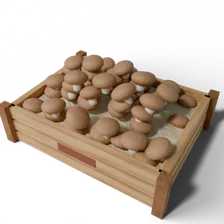
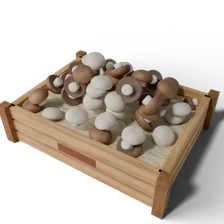
Salami, Salsiccia, Zucchini und Funghi natürlicher
Marktkisten neu modelliert und gerendert: Salami mit dunkler, bestäubter
Haut, Bindfaden, Anschnitt und Scheiben; Salsiccia als Kette mit grober
Füllung im glänzenden Darm; Zucchini keulenförmig mit Längsstreifen und
kantigem Stiel; gemischte braune und weiße Champignons mit Lamellen.
Knopf-Symbole und Pizzabelag passend dazu neu gezeichnet (Salami mit
Fettaugen, zerpflückte Salsiccia, Zucchini-Scheiben, Pilz-Scheiben).

Claude-Session: https://claude.ai/code/session_01KgNtpT19GCDNv4F5Gs6Jmq

Changed region(s): [[0.0938, 0.2188, 0.9062, 0.75]]

diff --git a/www/js/grafik.js b/www/js/grafik.js
@@ -50,9 +50,9 @@ function ingIcon(k){
     pomodoro:`<circle cx="12" cy="13.5" r="8" fill="${c}" ${o}/><path d="M12 6 l-3-2 M12 6 l3-2 M12 6 l0-3" stroke="#3f9a45" stroke-width="2" stroke-linecap="round"/><circle cx="9" cy="11" r="1.6" fill="#fff" opacity=".5"/>`,
     mozzarella:`<circle cx="12" cy="13" r="8" fill="${c}" ${o}/><path d="M7 15 q5 4 10 0" stroke="#d9d0bc" stroke-width="1.5" fill="none"/><circle cx="9" cy="10" r="1.8" fill="#fff"/>`,
     basilico:`<path d="M12 3 C20 6 21 15 12 21 C3 15 4 6 12 3Z" fill="${c}" ${o}/><path d="M12 5 V19 M12 10 l3-2 M12 14 l-3-2" stroke="#2a6a30" stroke-width="1.2" fill="none"/>`,
-    funghi:`<path d="M3 12 Q4 4 12 4 Q20 4 21 12Z" fill="${c}" ${o}/><rect x="9" y="12" width="6" height="8" rx="2" fill="#efe3cf" ${o}/><circle cx="9" cy="8" r="1.3" fill="#e9d8c0"/><circle cx="15" cy="7.5" r="1" fill="#e9d8c0"/>`,
+    funghi:`<path d="M2.5 11.5 Q2.5 3.5 12 3.5 Q21.5 3.5 21.5 11.5 Q21.5 13.2 19.5 13.2 L4.5 13.2 Q2.5 13.2 2.5 11.5Z" fill="${c}" ${o}/><path d="M5 12.2 Q12 10.6 19 12.2" stroke="#6e5240" stroke-width="1" fill="none"/><path d="M9.3 13.2 L8.6 19.5 Q12 21.8 15.4 19.5 L14.7 13.2Z" fill="#efe6d4" ${o}/><path d="M7 7 Q9 5 12 5" stroke="#d9bf9c" stroke-width="1.4" fill="none" stroke-linecap="round"/><g fill="#8a6446"><circle cx="15" cy="7.5" r=".7"/><circle cx="17.5" cy="9.5" r=".6"/><circle cx="13" cy="9.5" r=".5"/></g>`,
     prosciutto:`<path d="M3 15 Q5 6 12 7 Q19 4 21 11 Q19 19 11 18 Q5 20 3 15Z" fill="${c}" ${o}/><path d="M5 15 Q8 10 12 11 Q17 9 19 12" stroke="#fbeeee" stroke-width="2" fill="none"/>`,
-    salame:`<circle cx="12" cy="12" r="9" fill="${c}" ${o}/><circle cx="9" cy="9" r="1.3" fill="#f3d6cf"/><circle cx="15" cy="10" r="1" fill="#f3d6cf"/><circle cx="11" cy="15" r="1.2" fill="#f3d6cf"/><circle cx="16" cy="15" r="1" fill="#f3d6cf"/>`,
+    salame:`<circle cx="12" cy="12" r="9.5" fill="#5a2420" ${o}/><circle cx="12" cy="12" r="8" fill="${c}"/><g fill="#f3dccf"><ellipse cx="8.5" cy="9" rx="1.6" ry="1.1"/><circle cx="14.5" cy="8" r=".8"/><ellipse cx="15.5" cy="13.5" rx="1.3" ry="1.7"/><circle cx="10.5" cy="14.5" r="1"/><circle cx="12.5" cy="11" r=".6"/><circle cx="7.5" cy="13" r=".7"/><circle cx="12" cy="17" r=".7"/></g><g fill="#2a1414"><circle cx="11" cy="7.3" r=".55"/><circle cx="16.5" cy="10.5" r=".5"/><circle cx="9" cy="16.5" r=".5"/></g>`,
     olive:`<ellipse cx="12" cy="12" rx="6.5" ry="8.5" fill="${c}" stroke="#9aa39a" stroke-width="1.2"/><ellipse cx="12" cy="12" rx="2.2" ry="3" fill="#6a6a5a"/><ellipse cx="9.5" cy="8" rx="1.3" ry="2" fill="#fff" opacity=".35"/>`,
     cipolla:`<circle cx="12" cy="12" r="8.5" fill="none" stroke="${c}" stroke-width="3"/><circle cx="12" cy="12" r="4.5" fill="none" stroke="${c}" stroke-width="2.4"/>`,
     peperoni:`<path d="M7 8 Q12 5 17 8 Q20 15 15 21 Q12 22 9 21 Q4 15 7 8Z" fill="${c}" ${o}/><path d="M12 7 V3 l2 -1" stroke="#3f9a45" stroke-width="2" fill="none" stroke-linecap="round"/><path d="M9 11 Q8 15 10 18" stroke="#fff" stroke-width="1.2" fill="none" opacity=".5"/>`,
@@ -64,7 +64,7 @@ function ingIcon(k){
     olio:`<path d="M10 2 h4 v4 q4 2 4 7 v7 q0 2 -2 2 h-8 q-2 0 -2 -2 v-7 q0 -5 4 -7z" fill="${c}" ${o}/><rect x="9" y="12" width="6" height="5" rx="1" fill="#fbf6ea"/><path d="M10 14.5 h4" stroke="#6f8a3a" stroke-width="1.2"/>`,
     acciughe:`<path d="M2 12 Q10 7 18 11 L22 8 L21 12 L22 16 L18 13 Q10 17 2 12Z" fill="${c}" ${o}/><path d="M5 12 H17" stroke="#c8c3bf" stroke-width="1"/><circle cx="5" cy="11" r=".9" fill="#1e2420"/>`,
     capperi:`<g fill="${c}" ${o}><circle cx="8" cy="9" r="4"/><circle cx="16" cy="10" r="4"/><circle cx="12" cy="16" r="4"/></g><g fill="#a8b870"><circle cx="7" cy="8" r="1"/><circle cx="15" cy="9" r="1"/><circle cx="11" cy="15" r="1"/></g>`,
-    zucchine:`<circle cx="12" cy="12" r="9" fill="${c}" ${o}/><circle cx="12" cy="12" r="6.5" fill="#e8efc0"/><g fill="#c9d58a"><circle cx="10" cy="10" r=".9"/><circle cx="14" cy="11" r=".9"/><circle cx="12" cy="14" r=".9"/></g>`,
+    zucchine:`<path d="M3.5 17 C3 13.5 9 7 15.5 4.5 C18.5 3.4 20.5 5.2 19.5 7.6 C17.5 12 11.5 17.5 6.5 19 C5 19.4 3.8 18.6 3.5 17Z" fill="#2c5e24" ${o}/><path d="M5.6 16.3 C9 12.8 13 9 17.4 6.2 M7.6 17.8 C11 15.4 14.6 12.2 18.6 7.9" stroke="#8fb35c" stroke-width=".8" fill="none" stroke-dasharray="1.6 1.2"/><g fill="#a8c47a"><circle cx="9" cy="14" r=".5"/><circle cx="12" cy="11.5" r=".5"/><circle cx="15" cy="9" r=".5"/></g><path d="M19 5.6 l2.3 -1.6" stroke="#a8a868" stroke-width="2.2" stroke-linecap="round"/><circle cx="17" cy="17" r="4.6" fill="#2f5a22" ${o}/><circle cx="17" cy="17" r="3.6" fill="#e6edc0"/><circle cx="17" cy="17" r="1.8" fill="none" stroke="#c4d48c" stroke-width=".9" stroke-dasharray=".8 .8"/>`,
     melanzane:`<path d="M15 5 Q21 9 19 16 Q16 22 9 20 Q3 17 6 11 Q8 7 12 7 Q13 5 15 5Z" fill="${c}" ${o}/><path d="M13 7 l2 -4 l2 1 l-1 3 Q17 8 15 8Z" fill="#3f9a45"/><ellipse cx="9" cy="13" rx="1.5" ry="3" fill="#fff" opacity=".25"/>`,
     gorgonzola:`<path d="M3 17 L12 5 L21 17Z" fill="${c}" ${o}/><g fill="#5f8fa8"><circle cx="11" cy="12" r="1.2"/><circle cx="14" cy="14" r="1"/><circle cx="9" cy="15" r="1"/><path d="M12 9 l1 2" stroke="#5f8fa8"/></g>`,
     parmigiano:`<path d="M3 17 L12 5 L21 17Z" fill="${c}" ${o}/><path d="M3 17 L21 17 L21 19 L3 19Z" fill="#c99a3a" ${o}/><g fill="#e3c060"><circle cx="11" cy="13" r=".8"/><circle cx="14" cy="15" r=".8"/></g>`,
@@ -73,7 +73,7 @@ function ingIcon(k){
     pecorino:`<path d="M3 17 L12 5 L21 17Z" fill="${c}" ${o}/><path d="M12 5 L21 17 L19 17 L11 6.3Z" fill="#8a6a3a"/><g fill="#d8cca0"><circle cx="10" cy="14" r=".7"/><circle cx="13" cy="12" r=".7"/></g>`,
     provola:`<circle cx="12" cy="13" r="8" fill="${c}" ${o}/><path d="M12 5 q-1 -2 1 -3 q2 1 1 3z" fill="#8a5a2a" ${o}/><path d="M6 15 q6 4 12 0" stroke="#b07a3a" stroke-width="1.4" fill="none"/><circle cx="9" cy="10" r="1.6" fill="#f6dfb0"/>`,
     crudo:`<path d="M3 15 Q5 6 12 7 Q19 4 21 11 Q19 19 11 18 Q5 20 3 15Z" fill="${c}" ${o}/><path d="M4 14 Q8 9 12 10 Q17 8 20 11" stroke="#fbeaea" stroke-width="2.4" fill="none"/>`,
-    salsiccia:`<g fill="${c}" ${o}><circle cx="8" cy="9" r="4.5"/><circle cx="16" cy="11" r="4"/><circle cx="10" cy="17" r="4"/></g><g fill="#c98a6a"><circle cx="7" cy="8" r="1"/><circle cx="16" cy="10" r="1"/><circle cx="10" cy="16" r="1"/></g>`,
+    salsiccia:`<path d="M3.6 16 C2 10.5 7 5 13 4.3 C17 3.9 20.5 5.5 20.8 8.5 C21 11 18.8 12.4 16.2 12.2 C13.2 12 10.6 13.6 9.5 16.6 C8.6 19.2 4.7 19.6 3.6 16Z" fill="${c}" ${o}/><path d="M20.6 6.6 l1.6 -1.4 M5 18.6 l-1.4 1.8" stroke="#d9c7a0" stroke-width="1.4" stroke-linecap="round"/><g fill="#e6b8a6"><ellipse cx="6.5" cy="13" rx="1.2" ry=".8"/><circle cx="9.5" cy="9.5" r="1"/><ellipse cx="13.5" cy="7.2" rx="1.2" ry=".8"/><circle cx="17.5" cy="9.3" r=".8"/><circle cx="6.6" cy="16.4" r=".7"/><circle cx="12" cy="10.6" r=".6"/><circle cx="16" cy="6.3" r=".6"/></g><path d="M5.5 11.5 C7 8.3 10 6.4 13.5 5.9" stroke="#fff" stroke-width="1.1" fill="none" opacity=".35" stroke-linecap="round"/>`,
     friarielli:`<path d="M12 22 V9" stroke="#2a4a1a" stroke-width="1.6"/><path d="M12 12 C4 10 4 3 9 3 C11 3 12 6 12 9 C12 6 13 3 15 3 C20 3 20 10 12 12Z" fill="${c}" ${o}/><path d="M12 17 C7 17 5 13 7 12 C9 11 11 14 12 16" fill="${c}" ${o}/>`,
     ricotta:`<path d="M4 13 Q4 6 12 6 Q20 6 20 13 Q20 19 12 19 Q4 19 4 13Z" fill="${c}" ${o}/><path d="M7 11 q2 -2 4 0 M12 14 q2 -2 4 0 M8 15 q1 -1 2 0" stroke="#e3dccb" stroke-width="1.2" fill="none"/>`,
     cozze:`<path d="M5 19 Q2 9 10 3 Q14 2 15 6 Q19 14 13 21 Q8 22 5 19Z" fill="${c}" ${o}/><path d="M7 18 Q6 10 11 5" stroke="#5a6a8a" stroke-width="1.2" fill="none"/><ellipse cx="11" cy="14" rx="2.5" ry="3.5" fill="#f2a65a"/>`,
@@ -139,15 +139,22 @@ function pizzaSVG(set){
       else if(k==="origano"||k==="capperi"){for(let q=0;q<3;q++)s+=`<circle cx="${x+q*5-5}" cy="${y+(q%2)*4}" r="${k==="capperi"?3:1.6}" fill="${c}"/>`;}
       else if(k==="aglio")s+=`<ellipse cx="${x}" cy="${y}" rx="3.5" ry="2.5" transform="rotate(${rot} ${x} ${y})" fill="${c}" stroke="#cbbfa6"/>`;
       else if(k==="gorgonzola"||k==="parmigiano"||k==="fontina"||k==="ricotta"||k==="bufala"||k==="scamorza"||k==="pecorino"||k==="provola")s+=`<ellipse cx="${x}" cy="${y}" rx="${k==="bufala"?12:8}" ry="${k==="bufala"?10:6}" fill="${c}"/>${k==="gorgonzola"?`<circle cx="${x}" cy="${y}" r="1.6" fill="#5f8fa8"/>`:""}`;
-      else if(k==="zucchine")s+=`<circle cx="${x}" cy="${y}" r="7" fill="${c}"/><circle cx="${x}" cy="${y}" r="5" fill="#e8efc0"/>`;
+      // Zucchini-Scheiben: dunkelgrüne Schale, helles Fruchtfleisch, Kranz aus Kernen, leicht angebräunt
+      else if(k==="zucchine")s+=`<g transform="translate(${x} ${y}) rotate(${rot})"><ellipse rx="8.6" ry="7.9" fill="#2f5a22"/><ellipse rx="7.2" ry="6.6" fill="#dfe8b4"/><ellipse rx="4" ry="3.6" fill="none" stroke="#b6c67c" stroke-width="1.3" stroke-dasharray="1.2 1.2"/><ellipse cx="2.6" cy="-1.8" rx="2.4" ry="1.5" fill="#c9a86a" opacity=".45"/></g>`;
       else if(k==="gamberi")s+=`<path d="M${x-7} ${y-3} q10 -5 12 3 q0 6 -7 6" fill="none" stroke="${c}" stroke-width="5" stroke-linecap="round" transform="rotate(${rot} ${x} ${y})"/>`;
       else if(k==="cozze")s+=`<ellipse cx="${x}" cy="${y}" rx="8" ry="5" transform="rotate(${rot} ${x} ${y})" fill="${c}"/><ellipse cx="${x}" cy="${y}" rx="4" ry="2.5" transform="rotate(${rot} ${x} ${y})" fill="#f2a65a"/>`;
       else if(k==="basilico"||k==="rucola"||k==="prezzemolo"||k==="friarielli")s+=`<ellipse cx="${x}" cy="${y}" rx="${k==="rucola"?9:8}" ry="${k==="rucola"?3:5}" transform="rotate(${rot} ${x} ${y})" fill="${c}"/>`;
       else if(k==="olive")s+=`<circle cx="${x}" cy="${y}" r="5" fill="${c}"/><circle cx="${x}" cy="${y}" r="2" fill="#c93a24"/>`;
       else if(k==="cipolla")s+=`<circle cx="${x}" cy="${y}" r="7" fill="none" stroke="${c}" stroke-width="2.5"/>`;
       else if(k==="peperoni")s+=`<path d="M${x-8} ${y} q8 -8 16 0" fill="none" stroke="${c}" stroke-width="4" stroke-linecap="round" transform="rotate(${rot} ${x} ${y})"/>`;
-      else if(k==="salame"||k==="salsiccia")s+=`<circle cx="${x}" cy="${y}" r="9" fill="${c}"/><circle cx="${x-3}" cy="${y-2}" r="1.6" fill="#f3d0c0"/><circle cx="${x+3}" cy="${y+3}" r="1.6" fill="#f3d0c0"/>`;
-      else if(k==="funghi")s+=`<path d="M${x-7} ${y} a7 7 0 0 1 14 0 z" fill="${c}"/><rect x="${x-2}" y="${y}" width="4" height="5" fill="#e8d8c0"/>`;
+      // Salami-Scheibe: dunkler Rand, unregelmäßige Fettaugen und Pfefferkörner, an den Rändern knusprig
+      else if(k==="salame"){let f="";for(let q=0;q<6;q++){const fa=r()*Math.PI*2, fd=r()*6.2;f+=`<ellipse cx="${(Math.cos(fa)*fd).toFixed(1)}" cy="${(Math.sin(fa)*fd).toFixed(1)}" rx="${(.7+r()*1.2).toFixed(1)}" ry="${(.6+r()*.8).toFixed(1)}" fill="#f3d8ca"/>`;}
+        s+=`<g transform="translate(${x} ${y}) rotate(${rot})"><circle r="10" fill="#5e1e1c"/><circle r="8.6" fill="${c}"/>${f}<circle cx="-2.5" cy="4" r=".7" fill="#2a1414"/><circle cx="4" cy="-3" r=".6" fill="#2a1414"/></g>`;}
+      // Salsiccia wie in Neapel: zerpflückt in kleinen, angebratenen Stückchen
+      else if(k==="salsiccia")for(let q=0;q<3;q++){const px=x+(r()-.5)*16, py=y+(r()-.5)*16, rr=Math.floor(r()*180);
+        s+=`<path transform="translate(${px.toFixed(1)} ${py.toFixed(1)}) rotate(${rr}) scale(1.45)" d="M-4.5 -1 Q-4 -4 -.5 -3.6 Q2 -4.6 4 -2.2 Q5.4 .8 3 3 Q.5 4.4 -2 3.4 Q-5 2.6 -4.5 -1Z" fill="${c}" stroke="#6a3020" stroke-width=".9"/><circle cx="${(px-1).toFixed(1)}" cy="${(py-1).toFixed(1)}" r="1.4" fill="#d99a84"/>`;}
+      // Pilz-Scheiben: Querschnitt von Hut und Stiel, hell mit braunem Rand
+      else if(k==="funghi")s+=`<g transform="translate(${x} ${y}) rotate(${rot})"><path d="M-11 0 Q-11.5 -9.5 0 -9.5 Q11.5 -9.5 11 0 Q10.6 2.4 7 2.2 L4.4 2.2 L4.8 7.2 Q0 9 -4.8 7.2 L-4.4 2.2 L-7 2.2 Q-10.6 2.4 -11 0Z" fill="#efe3cb" stroke="${c}" stroke-width="2"/><path d="M-8 .4 Q0 -1.4 8 .4" stroke="#c9ad8a" stroke-width="1.2" fill="none"/></g>`;
       else s+=`<ellipse cx="${x}" cy="${y}" rx="8" ry="5.5" transform="rotate(${rot} ${x} ${y})" fill="${c}"/>`;
     }});
   return s+`</svg>`;

diff --git a/tools/kisten/kisten.py b/tools/kisten/kisten.py
@@ -226,14 +226,6 @@ def p_olio():
     return join([body, neck, cap, lab], "olio"), .15
 
 
-def p_salame():
-    skin = mm("pelle", "#b8786a", "#efe4d6", "noise", 18, .45, .6, rough=.75, bump=.25)
-    b = add(cyl(.06, .42, rot=(0, math.pi / 2, 0), v=24), skin); smooth(b, 1)
-    cut = add(cyl(.059, .01, loc=(.212, 0, 0), rot=(0, math.pi / 2, 0), v=24), M.get("salamifleisch") or mm("salamifleisch", "#a01c24", "#f4ddd0", "voronoi", 45, .03, .07, rough=.45))
-    knot = add(sphere(.02, loc=(-.22, 0, 0)), m("faden", "#efe6d0", .8))
-    return join([b, cut, knot], "salame"), .14
-
-
 def p_prosciutto(raw=False):
     """Schinken: Keule mit Schwarte, oben angeschnitten (rot mit weißem Fettrand bzw. rosa Kochschinken)."""
     rind = m("schwarte%d" % raw, "#c98a4a" if raw else "#d9a070", .45, bump=.2, coat=.2)
@@ -246,12 +238,6 @@ def p_prosciutto(raw=False):
     if raw:
         parts.append(add(cyl(.03, .1, loc=(.58, 0, -.02), rot=(0, math.pi / 2, 0)), m("knochen", "#efe6d0", .6)))
     return join(parts, "crudo" if raw else "prosciutto"), .45
-
-
-def p_funghi():
-    cap_ = add(deform(sphere(.09, scale=(1, 1, .6), seg=24), .01, 8), m("pilzhut", "#a87a52", .6, bump=.1))
-    stem = add(cyl(.035, .1, loc=(0, 0, -.06), v=16), m("pilzstiel", "#efe3cf", .6)); smooth(stem, 1)
-    return join([cap_, stem], "funghi"), .2
 
 
 def p_carciofi():
@@ -310,12 +296,6 @@ def p_peperoni(col):
     return join(parts, "peperoni"), .22
 
 
-def p_zucchine():
-    b = add(sphere(.045, scale=(4.2, 1, 1), seg=20), mm("zucchini", "#3f7a2a", "#7fb04f", "noise", 12, .45, .6, rough=.3))
-    end = add(cyl(.015, .04, loc=(.2, 0, 0), rot=(0, math.pi / 2, 0), v=8), STEM())
-    return join([b, end], "zucchine"), .12
-
-
 def p_melanzane():
     b = add(deform(sphere(.08, scale=(2.4, 1, 1), seg=24), .01, 11), m("aubergine", "#3a1a40", .1, coat=.8))
     capg = add(cone(.06, .02, .05, loc=(.2, 0, 0), rot=(0, math.pi / 2, 0), v=6), STEM())
@@ -358,16 +338,6 @@ def p_formaggio_keil(name, col, rind, r=.22, h=.12, ang=1.1, kind=None):
     rd = node_mat(name + "r", rind, .6, bump=.2, bscale=12)
     o = wedge(r, h, ang, body, rd, name)
     return o, r * 1.3
-
-
-def p_salsiccia():
-    parts = []
-    mt = mm("wurst", "#a8583a", "#d89a7a", "noise", 30, .45, .65, rough=.3)
-    for i in range(3):
-        s = sphere(.045, loc=(i * .13, 0, 0), scale=(1.5, 1, 1), seg=18); parts.append(add(s, mt))
-        if i < 2:
-            parts.append(add(cyl(.008, .04, loc=(i * .13 + .065, 0, 0), rot=(0, math.pi / 2, 0), v=6), m("faden", "#efe6d0", .8)))
-    return join(parts, "salsiccia"), .12
 
 
 def p_friarielli(col="#2a5f25", name="friarielli", n=6, ln=.26):
@@ -447,6 +417,166 @@ def p_melone():
     return join([b] + ribs + [st], "melone"), .4
 
 
+# ---------- Gedrehte und gezogene Formen (für Wurst, Zucchini, Pilze) ----------
+def _mesh(bm, name):
+    bmesh.ops.recalc_face_normals(bm, faces=bm.faces)
+    me = bpy.data.meshes.new(name); bm.to_mesh(me); bm.free()
+    o = bpy.data.objects.new(name, me); bpy.context.collection.objects.link(o)
+    return smooth(o)
+
+
+def _bridge(bm, rings, v):
+    for a, b in zip(rings, rings[1:]):
+        if len(a) == 1:
+            for j in range(v):
+                bm.faces.new((a[0], b[(j + 1) % v], b[j]))
+        elif len(b) == 1:
+            for j in range(v):
+                bm.faces.new((a[j], a[(j + 1) % v], b[0]))
+        else:
+            for j in range(v):
+                bm.faces.new((a[j], a[(j + 1) % v], b[(j + 1) % v], b[j]))
+
+
+def lathe(pts, v=32, name="dreh"):
+    """Rotationskörper um die z-Achse aus Punkten (Radius, Höhe), von oben nach unten."""
+    bm = bmesh.new(); rings = []
+    for r, z in pts:
+        if r < 1e-5:
+            rings.append([bm.verts.new((0, 0, z))])
+        else:
+            rings.append([bm.verts.new((r * math.cos(j / v * math.tau), r * math.sin(j / v * math.tau), z)) for j in range(v)])
+    _bridge(bm, rings, v)
+    return _mesh(bm, name)
+
+
+def tube(prof, L, n=40, v=20, bend=0.0, ridge=0.0, ridges=5, wob=0.0, seed=1, name="rohr"):
+    """Länglicher Körper entlang x: prof(t) gibt den Radius, bend biegt ihn, ridge macht flache Längsrippen."""
+    rnd = random.Random(seed); ph = [rnd.uniform(0, math.tau) for _ in range(3)]
+    bm = bmesh.new(); rings = []
+    for i in range(n + 1):
+        t = i / n; r = prof(t); x = (t - .5) * L; zc = bend * (1 - (2 * t - 1) ** 2)
+        if r < 1e-5:
+            rings.append([bm.verts.new((x, 0, zc))]); continue
+        ring = []
+        for j in range(v):
+            a = j / v * math.tau
+            rr = r * (1 + ridge * math.cos(ridges * a) + wob * math.sin(t * 9 + ph[0]) * math.sin(a * 2 + ph[1]))
+            ring.append(bm.verts.new((x, rr * math.cos(a), zc + rr * math.sin(a))))
+        rings.append(ring)
+    _bridge(bm, rings, v)
+    return _mesh(bm, name)
+
+
+def obj_mat(name, cols, scale=(1, 1, 1), kind="noise", nscale=6.0, rough=.5, sss=0.0, bump=0.0, bscale=20.0, coat=0.0, detail=8):
+    """Farbverlauf (Liste aus (Position, Farbe)) über ein Muster in Objekt-Koordinaten, das sich strecken lässt
+    (Längsstreifen der Zucchini, Fettaugen in der Wurst, Rillen unter dem Pilzhut)."""
+    mt = node_mat(name, cols[0][1], rough=rough, sss=sss, bump=bump, bscale=bscale, coat=coat)
+    nt = mt.node_tree; bs = nt.nodes["Principled BSDF"]
+    tc = nt.nodes.new("ShaderNodeTexCoord"); mp = nt.nodes.new("ShaderNodeMapping")
+    mp.inputs["Scale"].default_value = scale
+    nt.links.new(tc.outputs["Object"], mp.inputs["Vector"])
+    if kind == "voronoi":
+        t = nt.nodes.new("ShaderNodeTexVoronoi"); t.inputs["Scale"].default_value = nscale; fac = t.outputs["Distance"]
+    elif kind == "radial":  # feine Linien rund um die z-Achse (Lamellen)
+        g = nt.nodes.new("ShaderNodeTexGradient"); g.gradient_type = "RADIAL"
+        nt.links.new(mp.outputs["Vector"], g.inputs["Vector"])
+        mul = nt.nodes.new("ShaderNodeMath"); mul.operation = "MULTIPLY"; mul.inputs[1].default_value = nscale * math.tau
+        sn = nt.nodes.new("ShaderNodeMath"); sn.operation = "SINE"
+        nt.links.new(g.outputs["Fac"], mul.inputs[0]); nt.links.new(mul.outputs[0], sn.inputs[0])
+        t = None; fac = sn.outputs[0]
+    else:
+        t = nt.nodes.new("ShaderNodeTexNoise"); t.inputs["Scale"].default_value = nscale; t.inputs["Detail"].default_value = detail; fac = t.outputs["Fac"]
+    if t is not None:
+        nt.links.new(mp.outputs["Vector"], t.inputs["Vector"])
+    r = nt.nodes.new("ShaderNodeValToRGB"); cr = r.color_ramp
+    cr.elements[0].position, cr.elements[0].color = cols[0][0], lin(cols[0][1])
+    cr.elements[1].position, cr.elements[1].color = cols[-1][0], lin(cols[-1][1])
+    for p, c in cols[1:-1]:
+        e = cr.elements.new(p); e.color = lin(c)
+    nt.links.new(fac, r.inputs["Fac"]); nt.links.new(r.outputs["Color"], bs.inputs["Base Color"])
+    return mt
+
+
+def om(key, *a, **k):
+    if key not in M:
+        M[key] = obj_mat(key, *a, **k)
+    return M[key]
+
+
+def ring(r, tr, loc, name="faden"):
+    bpy.ops.mesh.primitive_torus_add(major_radius=r, minor_radius=tr, location=loc, rotation=(0, math.pi / 2, 0), major_segments=24, minor_segments=6)
+    return smooth(bpy.context.object)
+
+
+# Salami: dunkelrote, faltige Haut mit weißem Edelschimmel, mit Bindfaden geschnürt; eine Hälfte angeschnitten
+SALAMI_HAUT = lambda: om("salamihaut", [(.3, "#4a2220"), (.5, "#6e342c"), (.62, "#9a7468"), (.75, "#d6ccc0")], scale=(.5, 1, 1), nscale=26, rough=.85, bump=.4, bscale=70)
+SALAMI_FLEISCH = lambda: om("salamifleisch", [(.07, "#f3e2d6"), (.1, "#9a1e26"), (.3, "#8a1a22"), (.6, "#6e1219")], kind="voronoi", nscale=55, rough=.4, sss=.1)
+
+
+def p_salame(cut=False, seed=1):
+    L, R = .42, .058
+    prof = lambda t: R * (min(1, t * 9) ** .45 if not cut else 1) * min(1, (1 - t) * 9) ** .45
+    b = add(tube(prof, L, n=48, v=24, bend=.006, wob=.04, seed=seed, name="wurst"), SALAMI_HAUT())
+    parts = [b]
+    for i in range(6):  # Bindfaden quer
+        x = -L / 2 + .05 + i * (L - .1) / 5
+        parts.append(add(ring(prof((x + L / 2) / L) * 1.0, .0024, (x, 0, 0)), m("faden", "#cdbb96", .9)))
+    parts.append(add(cyl(.0024, L * .96, loc=(0, 0, R * .99), rot=(0, math.pi / 2, 0), v=6), M["faden"]))
+    parts.append(add(sphere(.008, loc=(L / 2 + .004, 0, 0)), M["faden"]))
+    if cut:
+        parts.append(add(cyl(R * .97, .004, loc=(-L / 2 + .001, 0, 0), rot=(0, math.pi / 2, 0), v=32), SALAMI_FLEISCH()))
+    return join(parts, "salame"), .14
+
+
+def p_salame_scheibe():
+    a = add(cyl(.06, .007, v=32), SALAMI_HAUT())
+    b = add(cyl(.057, .009, v=32), SALAMI_FLEISCH())
+    return join([a, b], "scheibe"), .12
+
+
+# Salsiccia: grobe, rosarote Bratwurst im glänzenden Naturdarm, als Kette mit gedrehten Enden
+def p_salsiccia(links=3, seed=1):
+    def prof(t):
+        u = (t * links) % 1
+        return .038 * (.18 + .82 * math.sin(math.pi * u) ** .22) * (1 + .04 * math.sin(t * 23))
+    mt = om("wurst", [(.4, "#8e3c38"), (.52, "#b45a50"), (.6, "#d08c7c"), (.66, "#ecd2c2")], nscale=55, detail=12,
+            rough=.3, sss=.25, coat=.35, bump=.2, bscale=60)
+    o = add(tube(prof, .155 * links, n=36 * links, v=20, bend=.04 * random.Random(seed).uniform(-1, 1), wob=.05, seed=seed, name="salsiccia"), mt)
+    o.rotation_euler = (0, 0, 0)
+    return o, .1
+
+
+# Zucchini: dunkelgrün mit hellen Längsstreifen und Sprenkeln, leicht keulenförmig und gebogen, kantiger Stiel
+def p_zucchine(seed=1):
+    rnd = random.Random(seed)
+    L, R = .44, .047
+    prof = lambda t: R * (.78 + .3 * t) * min(1, t * 7) ** .5 * min(1, (1 - t) * 5) ** .55
+    mt = om("zucchini", [(.42, "#17361a"), (.52, "#2e5a24"), (.6, "#6f9446"), (.7, "#a8bf74")], scale=(1.2, 14, 14), nscale=3.5, rough=.45, coat=.1, bump=.08, bscale=90)
+    b = add(tube(prof, L, n=44, v=30, bend=rnd.uniform(.01, .03), ridge=.035, ridges=5, wob=.03, seed=seed, name="zucchine"), mt)
+    st = add(cone(.022, .012, .05, loc=(-L / 2 - .015, 0, 0), rot=(0, -math.pi / 2, 0), v=5), m("zstiel", "#9aa868", .75, bump=.3, bscale=40))
+    fl = add(sphere(.012, loc=(L / 2 - .004, 0, .002), scale=(.5, 1, 1), seg=10), m("bluete", "#8a7a3a", .9))
+    return join([b, st, fl], "zucchine"), .12
+
+
+# Funghi: Champignons mit gewölbtem, am Rand eingerolltem Hut, Lamellen darunter, kurzem dickem Stiel
+def p_funghi(braun=True, seed=1):
+    rnd = random.Random(seed)
+    R, h = .085 * rnd.uniform(.9, 1.1), .062
+    top = [(0, h)] + [(R * math.sin(a), h * math.cos(a) ** .8 if a < math.pi / 2 else -.012 * math.sin((a - math.pi / 2) * 3))
+                      for a in [i / 14 * math.radians(112) for i in range(1, 15)]]
+    if braun:
+        hut = om("pilzbraun", [(.3, "#6a4630"), (.55, "#8e6444"), (.8, "#b08a64")], scale=(1, 1, .3), nscale=7, rough=.55, bump=.12, bscale=25)
+    else:
+        hut = om("pilzweiss", [(.35, "#c9b89c"), (.55, "#e2d6c2"), (.8, "#f2ebde")], scale=(1, 1, .3), nscale=9, rough=.6, sss=.15, bump=.15, bscale=30)
+    cap_ = add(deform(lathe(top + [(R * .9, -.016)], v=40, name="hut"), .004, seed), hut)
+    gill = add(lathe([(R * .9, -.016), (R * .62, -.006), (.03, .006)], v=40, name="lamellen"),
+               om("lamellen", [(.0, "#3e2a20"), (.5, "#6e5240"), (1, "#a8907a")], kind="radial", nscale=70, rough=.8))
+    stem = add(lathe([(.032, .006), (.035, -.03), (.036, -.05), (.03, -.056), (0, -.056)], v=24, name="stiel"),
+               om("pilzstiel", [(.4, "#e2d6c0"), (.7, "#f2ebde")], scale=(1, 1, 4), nscale=10, rough=.6, sss=.1))
+    return join([cap_, gill, stem], "funghi"), .2
+
+
 PROTO = {
     "pomodoro": (p_pomodoro, "pile"), "mozzarella": (lambda: p_mozzarella(), "pile"), "basilico": (p_basilico, "pile"),
     "aglio": (p_aglio, "pile"), "origano": (p_origano, "bunch"), "olio": (p_olio, "upright"),
@@ -464,6 +594,14 @@ PROTO = {
     "scamorza": (lambda: p_scamorza(), "pile"), "pecorino": (lambda: p_formaggio_keil("pecorino", "#f1e6c2", "#8a6a3a", r=.24, h=.14, ang=1.0), "wedges"),
     "provola": (p_provola, "pile"),
     "patate": (p_patate, "pile"), "melone": (p_melone, "pile"),
+}
+
+# Mehrere Spielarten derselben Ware, damit die Kiste nicht wie kopiert aussieht
+VARIANTEN = {
+    "salame": [lambda: p_salame(False, 1), lambda: p_salame(True, 2), lambda: p_salame(False, 3)],
+    "salsiccia": [lambda: p_salsiccia(3, 1), lambda: p_salsiccia(3, 2), lambda: p_salsiccia(2, 3)],
+    "zucchine": [lambda: p_zucchine(1), lambda: p_zucchine(2), lambda: p_zucchine(3)],
+    "funghi": [lambda: p_funghi(True, 1), lambda: p_funghi(True, 2), lambda: p_funghi(False, 3)],
 }
 
 # ---------- Kiste ----------
@@ -504,6 +642,10 @@ def fill(key):
     if key == "peperoni":
         for c in ("#d8281a", "#f2b52a", "#2f8a2a"):
             protos.append(p_peperoni(c))
+    elif key in VARIANTEN:
+        for i, f in enumerate(VARIANTEN[key]):
+            random.seed(hash(key) % 1000 + i)
+            protos.append(f())
     else:
         for i in range(2 if mode in ("pile",) else 1):
             random.seed(hash(key) % 1000 + i)
@@ -538,6 +680,8 @@ def fill(key):
                         continue
                     z = top - d * .3 + layer * d * .5 + mound + d * .25
                     rot = (random.uniform(-.5, .5), random.uniform(-.5, .5), random.uniform(0, math.tau)) if mode == "pile" else (0, 0, random.uniform(-.4, .4) + math.pi / 2)
+                    if key == "funghi" and random.random() < .3:  # ein paar liegen umgekippt und zeigen die Lamellen
+                        rot = (random.uniform(1.9, 2.6), random.uniform(-.4, .4), random.uniform(0, math.tau))
                     put((x, y, z), rot, random.uniform(.92, 1.08))
     elif mode == "logs":
         d = size * 1.0
@@ -548,9 +692,15 @@ def fill(key):
                 if abs(y) > CD - d * .4:
                     continue
                 L = .5 if key in ("salame",) else .45
-                for x in ([-.36, .36] if key not in ("acciughe", "salsiccia") else [-.5, -.12, .26, .55]):
+                for x in ([-.36, .36] if key != "acciughe" else [-.5, -.12, .26, .55]):
                     put((x + random.uniform(-.05, .05), y, top - .05 + d * .4 + layer * d * .7 + .03 * (1 - (y / CD) ** 2)),
                         (random.uniform(-.1, .1), 0, random.uniform(-.15, .15) + (math.pi if random.random() < .5 else 0)))
+        if key == "salame":  # ein paar Scheiben obendrauf
+            sch = p_salame_scheibe()[0]; sch.location = (0, 0, -50)
+            for x, y in ((-.2, -.12), (-.05, -.18), (.1, -.1), (.22, -.2), (.02, .02)):
+                o = sch.copy(); bpy.context.collection.objects.link(o)
+                o.location = (x, y, top + size * 1.25); o.rotation_euler = (random.uniform(-.25, .25), random.uniform(-.25, .25), 0)
+                o.scale = (k_sc,) * 3; placed.append(o)
     elif mode == "upright":
         d = size * 1.05
         nx, ny = int(2 * CW / d), int(2 * CD / d)
